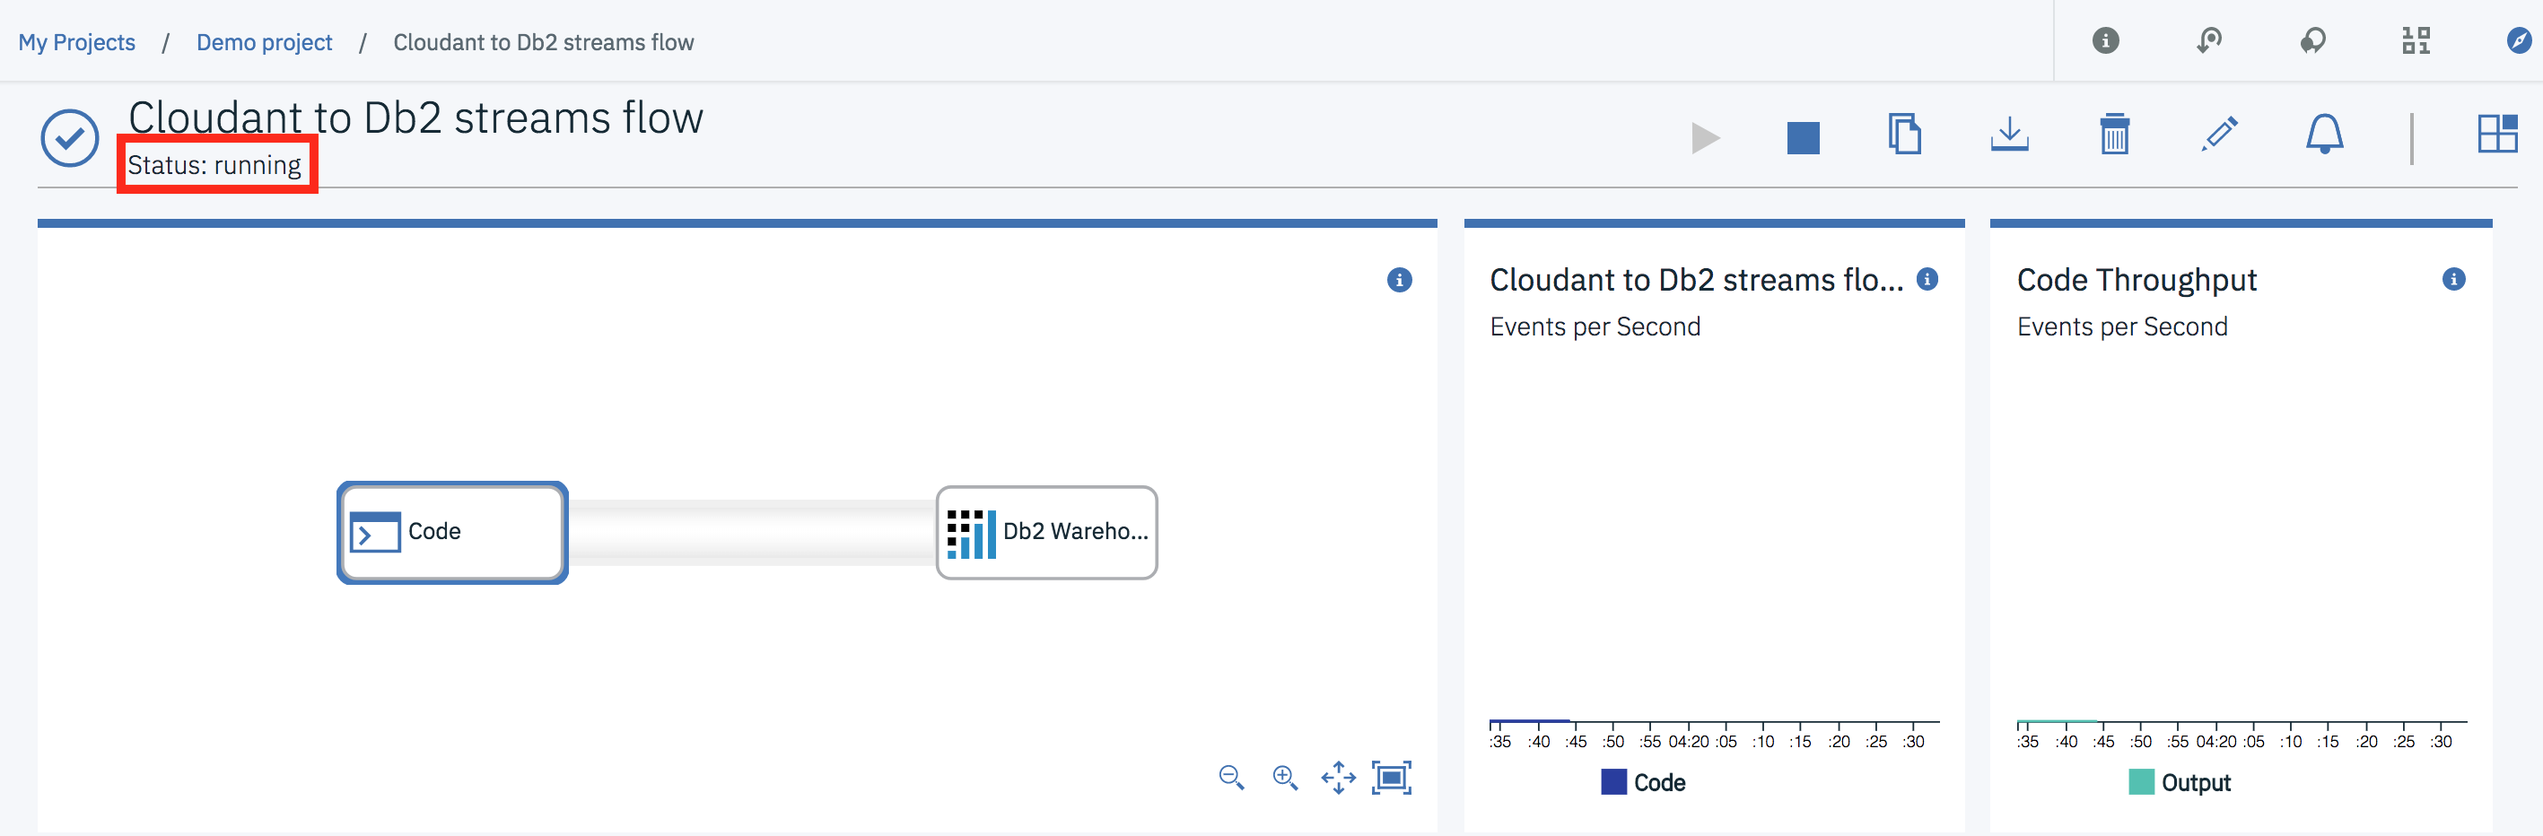
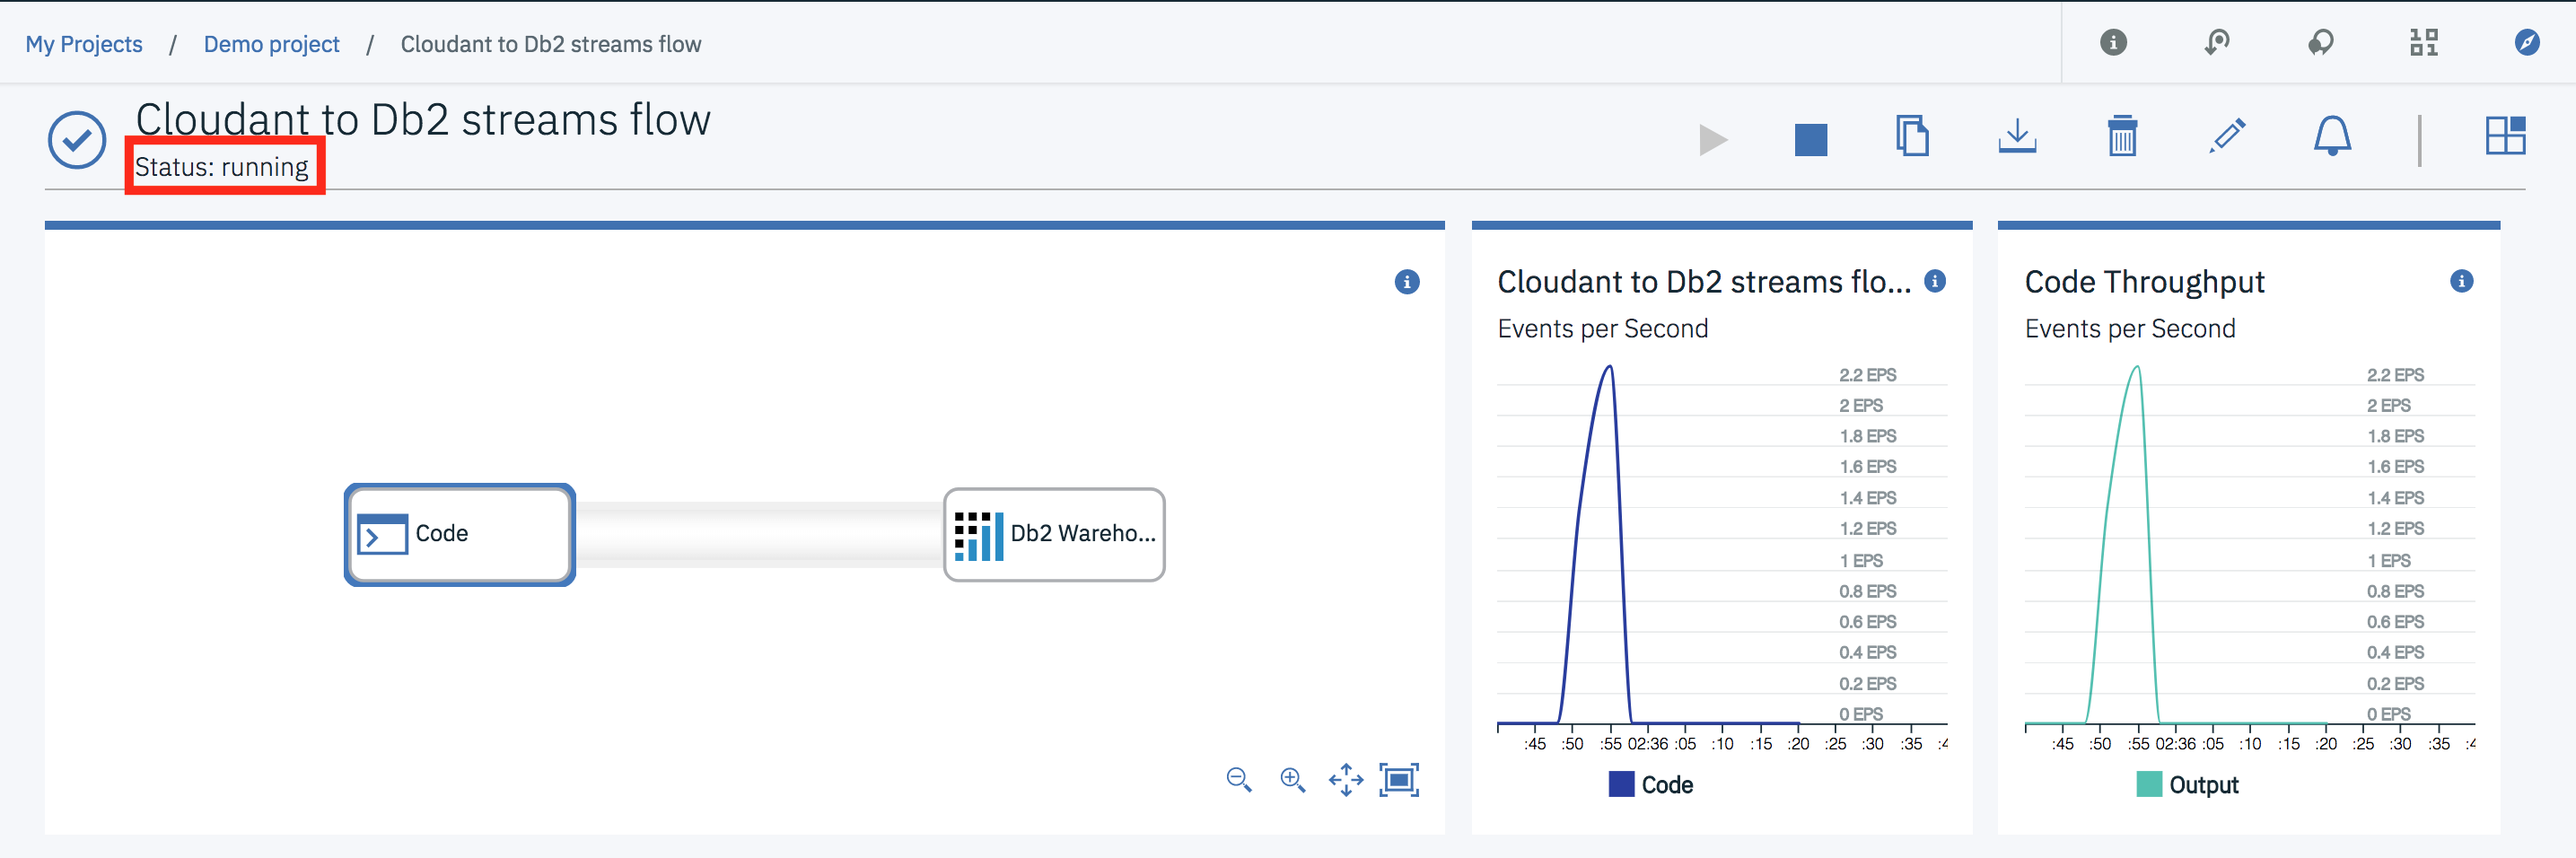
Updated python code and streams flow file to use db.changes

diff --git a/streams-designer/README.md b/streams-designer/README.md
@@ -74,10 +74,8 @@ The first node we'll create is a Python node for loading documents from Cloudant
 1. Select `Python 3.5` as the coding language and replace what's existing with the code below.<br/>
    **Note:** Add your Cloudant credentials as parameters in the Cloudant initializer `client = Cloudant(...)`.
     ```python
-    import sys
     from cloudant import Cloudant
-    from cloudant.feed import Feed
-    
+        
     # init() function will be called once on pipeline initialization
     # @state a Python dictionary object for keeping state. The state object is passed to the produce function
     
@@ -96,6 +94,7 @@ The first node we'll create is a Python node for loading documents from Cloudant
     # You must declare all output attributes in the Edit Schema window.
     def produce(submit, state):
         # Replace with your Cloudant credentials
+        # Note: In general, 'account' is the username.
         client = Cloudant(
             'username',
             'password',
@@ -103,25 +102,11 @@ The first node we'll create is a Python node for loading documents from Cloudant
             connect=True
         )
         db = client['animaldb']
-        feed = Feed(db, feed='continuous', include_docs=True)
+        feed = db.changes(feed='continuous', include_docs=True)
         for change in feed:
-            doc = change['doc']
-            if 'payload' in doc:
-                output_doc = {}
-                output_doc['_id'] = doc['_id']
-                output_doc['_rev'] = doc['_rev']
-                if 'wiki_page' in doc['payload']:
-                    output_doc['wiki_page'] = doc['payload']['wiki_page']
-                if 'min_weight' in doc['payload']:
-                    output_doc['min_weight'] = doc['payload']['min_weight']
-                if 'max_weight' in doc['payload']:
-                    output_doc['max_weight'] = doc['payload']['max_weight']
-                if 'class' in doc['payload']:
-                    output_doc['class'] = doc['payload']['class']
-                if 'diet' in doc['payload']:
-                    output_doc['diet'] = doc['payload']['diet']
-                # Submit a tuple in each iteration:
-                submit(output_doc)
+           doc = change['doc']
+           # Submit the Cloudant doc in each iteration:
+           submit(doc)
     ```
 1. Select the `Edit Output Schema` below the code editor.
 1. Add the following attribute names and their types using the **Add Attribute** button.
@@ -131,9 +116,13 @@ The first node we'll create is a Python node for loading documents from Cloudant
     --- | --- 
     \_id | Text
     \_rev | Text
+    \_deleted | Boolean
     wiki_page | Text
     min_weight | Number
     max_weight | Number
+    min_length | Number
+    max_length | Number
+    latin_name | Text
     class | Text
     diet | Text
 
